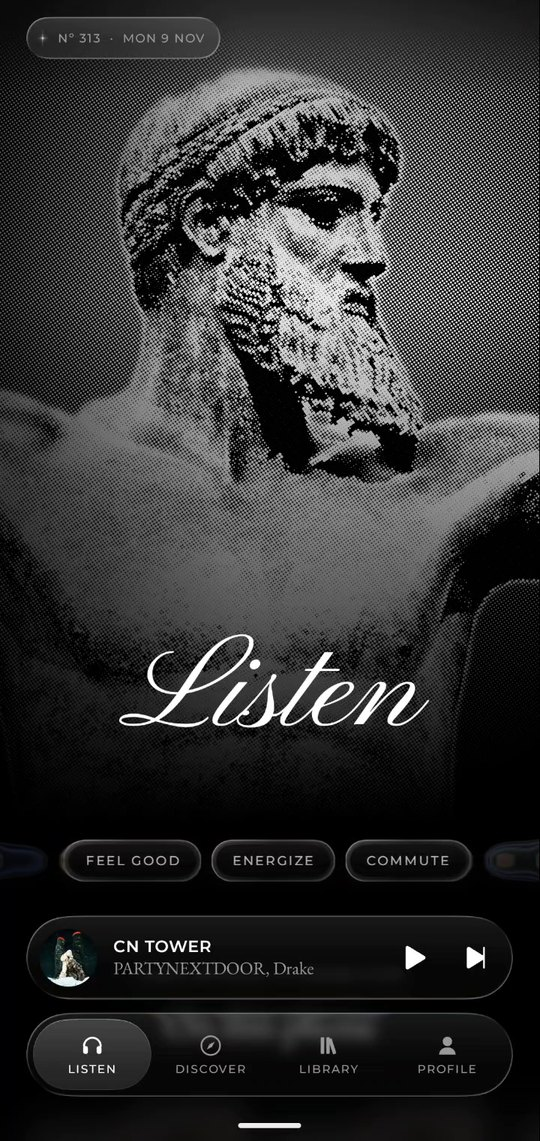
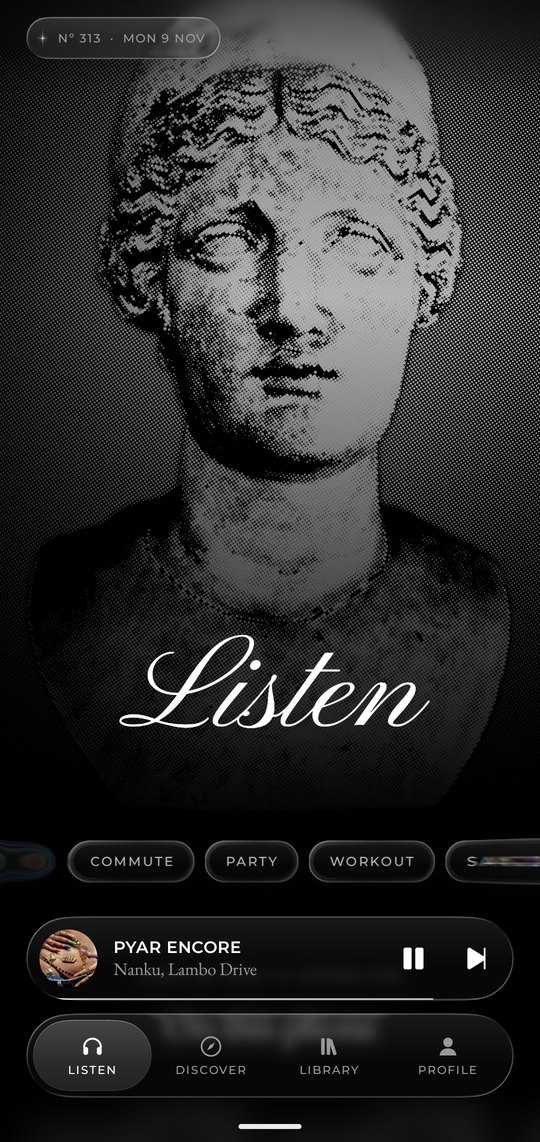
AETHER 1.0.0: release key, changelog and download page
Release builds are signed with AETHER's own key, kept outside git, and are
no longer shrunk, so they run the same code that's tested on the phone.

diff --git a/README.md b/README.md
@@ -6,22 +6,37 @@ Built around the sound. Unlike anything you've used.
 </p>
 
 <p align="center">
-  <img src="docs/images/listen.jpg" width="24%" alt="Listen, with a statue in halftone">
-  <img src="docs/images/morph.jpg" width="24%" alt="The halftone dots of one statue reassembling into another">
-  <img src="docs/images/now-playing.jpg" width="24%" alt="Now Playing, the album's film fading in an arc round the dial">
-  <img src="docs/images/equaliser.jpg" width="24%" alt="The equaliser, showing the measured correction for AirPods Max">
+  <a href="https://github.com/GHOSTxASR/AETHER/releases/latest/download/AETHER.v1.apk"><img alt="Download the APK" src="https://img.shields.io/badge/Download-APK-ffffff?style=for-the-badge&labelColor=000000" /></a>
+  <a href="https://github.com/GHOSTxASR/AETHER/releases/latest"><img alt="Latest release" src="https://img.shields.io/github/v/release/GHOSTxASR/AETHER?style=for-the-badge&labelColor=000000&color=ffffff" /></a>
+  <a href="LICENSE"><img alt="License: GPL-3.0" src="https://img.shields.io/badge/License-GPL--3.0-ffffff?style=for-the-badge&labelColor=000000" /></a>
+  <img alt="Android 10 or later" src="https://img.shields.io/badge/Android-10%2B-ffffff?style=for-the-badge&labelColor=000000" />
 </p>
 
 <p align="center">
+  <img src="docs/images/listen.jpg" width="24%" alt="The homepage, with a statue of Hera in halftone">
+  <img src="docs/images/morph.jpg" width="24%" alt="The halftone dots of one statue reassembling into another">
+  <img src="docs/images/now-playing.jpg" width="24%" alt="Now Playing, the album's film fading in an arc round the dial">
+  <img src="docs/images/artist.jpg" width="24%" alt="An artist's page, with their own lettering">
+</p>
+
+<p align="center">
+  <img src="docs/images/home-folders.jpg" width="24%" alt="The homepage's playlists as glass folders">
+  <img src="docs/images/equaliser.jpg" width="24%" alt="The equaliser, showing the measured correction for AirPods Max">
   <img src="docs/images/card-profile.jpg" width="24%" alt="A profile card in brushed silver">
   <img src="docs/images/card-song.jpg" width="24%" alt="A song card in black metal">
-  <img src="docs/images/library.jpg" width="24%" alt="The library, with playlists as glass folders">
-  <img src="docs/images/profile.jpg" width="24%" alt="A day of listening drawn as a dial">
 </p>
 
 AETHER is made the way a fine watch is made: every part considered, nothing there for show. Pure black. One glass. Three typefaces. The only colour on the screen comes from the music you're playing.
 
 It plays all of YouTube Music and your own files through an audio path that reports exactly what it measured, in an interface no other music app looks or moves like.
+
+## Download
+
+1. Download **[AETHER v1.apk](https://github.com/GHOSTxASR/AETHER/releases/latest/download/AETHER.v1.apk)** from the latest release.
+2. Open it on your phone. Android asks once to allow installs from your browser or file manager.
+3. Open AETHER and press play.
+
+Needs Android 10 or later. Every release is signed with the same key, so new versions install over old ones and keep your library.
 
 ## Zero nonsense
 
@@ -73,7 +88,7 @@ Quality is measured, never claimed. Added sources play open media only: no conte
 
 ## Building
 
-Version 0.1.0, in final polish. Runs on Android 10 or later, in portrait. You need JDK 17 or later and the Android SDK with API 37, with `local.properties` pointing at the SDK.
+Runs on Android 10 or later, in portrait. To build it you need JDK 17 or later and the Android SDK with API 37, with `local.properties` pointing at the SDK.
 
 ```sh
 ./gradlew :app:installDebug                                          # build and install on a phone
@@ -82,7 +97,7 @@ Version 0.1.0, in final polish. Runs on Android 10 or later, in portrait. You ne
 ./gradlew :app:assembleRelease                                       # release APK
 ```
 
-Release builds are currently signed with the debug key, so add your own signing config before distributing one. AGSL shaders need Android 13, and the dot morph and bit-perfect output need 14. Older phones fall back quietly.
+A release build is signed with the key named in `keystore.properties`, which stays out of git; without one the APK comes out unsigned. Publishing is written up in [`docs/releasing.md`](docs/releasing.md). AGSL shaders need Android 13, and the dot morph and bit-perfect output need 14. Older phones fall back quietly.
 
 | Module | What it holds |
 |---|---|
@@ -95,7 +110,7 @@ Release builds are currently signed with the debug key, so add your own signing 
 | `ytmusic` | The YouTube Music client and its fail-soft parser |
 | `sources:*` | YouTube, the phone, addons, and Apple's public art |
 
-Design and engineering notes are in [`docs/product.md`](docs/product.md), [`docs/architecture.md`](docs/architecture.md) and [`docs/ytmusic-verification.md`](docs/ytmusic-verification.md).
+What changed and when is in [`CHANGELOG.md`](CHANGELOG.md). Design and engineering notes are in [`docs/product.md`](docs/product.md), [`docs/architecture.md`](docs/architecture.md) and [`docs/ytmusic-verification.md`](docs/ytmusic-verification.md).
 
 ## Credits
 

diff --git a/docs/releases/v1.0.0.md b/docs/releases/v1.0.0.md
@@ -1,0 +1,17 @@
+**AETHER 1.0** is the first release: a premium music player for Android, built around the sound and unlike anything you've used.
+
+### What's in it
+- **All of YouTube Music, and your own:** the whole catalogue, as a guest or signed in on Google's own page. Your FLAC, ALAC and WAV files, folder by folder. Songs and whole playlists kept for offline. Your own server, added by address.
+- **An honest signal path:** "Lossless", "Hi-Res" and "Bit-perfect" appear only when measured or verified. Bit-perfect to a USB DAC on Android 14 and later.
+- **An equaliser that knows your headphones:** measured corrections for 39 models, including AirPods Max and Pro, Sennheiser, Sony, Marshall and Bose. Seven tunings of our own, and profiles imported from AutoEq, squig.link, Equalizer APO or Wavelet.
+- **Statues that rearrange themselves:** behind Listen, twelve figures from antiquity in halftone, every dot flying across to become the next god.
+- **Now Playing as an instrument:** a dial with a red needle, and the album's own film in colour where it has one, fading in an arc round the controls.
+- **Metal you can send:** your listening on a black or brushed silver charge card, and any song on a card of its own, at story size.
+- **A song going into the phone:** keep one and its cover sinks into the foot of the screen with a ripple through the whole display.
+- **Lyrics drawn by hand:** words as a constellation, or the whole song as one unbroken line.
+- **Zero nonsense:** no ads, no tracking, no analytics, no account and no server of ours.
+
+### Installing
+Needs Android 10 or later. Open the APK on your phone, and Android asks once to allow installs from your browser or file manager.
+
+If you have an earlier test build of AETHER, uninstall it first: this is the first build signed with AETHER's own release key. From here on, new versions install over old ones and keep your library.

diff --git a/CHANGELOG.md b/CHANGELOG.md
@@ -1,0 +1,26 @@
+# Changelog
+
+All notable changes to AETHER will be documented in this file.
+
+The format is based on [Keep a Changelog](https://keepachangelog.com/en/1.1.0/),
+and this project adheres to [Semantic Versioning](https://semver.org/spec/v2.0.0.html).
+
+## [Unreleased]
+
+## [1.0.0] - 2026-11-09
+
+The first release.
+
+### Added
+- **Listening:** the whole YouTube Music catalogue, as a guest or signed in; your own music by folder; songs and playlists kept for offline, with new additions picked up on Wi-Fi; your own sources by address, open media only.
+- **Sound:** quality labels only when measured or verified; bit-perfect output to a USB DAC on Android 14 and later; float output with no resampling by the app.
+- **Equaliser:** seven tunings, measured corrections for 39 headphones, and profiles imported from AutoEq, squig.link, Equalizer APO or Wavelet files. A boost can't clip, and with nothing chosen every sample passes through untouched.
+- **Now Playing:** a seeking dial; the cover as a print, halftone, ASCII or dither; the album's film in colour where it has one, fading in an arc round the controls; lyrics as constellations or as one unbroken line.
+- **Listen:** twelve statues in halftone, the dots of one flying across to become the next.
+- **Downloads:** the cover carried into the foot of the screen with a ripple on arrival; several at once as a row of discs, with a list of what's coming down.
+- **Profile:** most played artists, your hours as a dial, genres and habits, all worked out on the phone.
+- **Cards:** a metal charge card of your profile or any song, black or silver, at 1080 by 1920.
+- **Privacy:** no ads, no analytics, no tracking, no account and no server of ours.
+
+[Unreleased]: https://github.com/GHOSTxASR/AETHER/compare/v1.0.0...HEAD
+[1.0.0]: https://github.com/GHOSTxASR/AETHER/releases/tag/v1.0.0

diff --git a/docs/releasing.md b/docs/releasing.md
@@ -1,0 +1,25 @@
+# Publishing a release
+
+The way PODIUM's are published.
+
+## The key
+
+A PKCS12 keystore (RSA 4096, alias `aether`, valid 10,000 days) lives outside the repo, in
+`%USERPROFILE%\.aether-release\`, with its passwords in `keystore.properties` beside it. A copy of that
+file sits in the project root, which git ignores. `app/build.gradle.kts` reads it, or the
+`AETHER_KEYSTORE_FILE`, `AETHER_KEYSTORE_PASSWORD`, `AETHER_KEY_ALIAS` and `AETHER_KEY_PASSWORD`
+environment variables. With neither, the release APK is built unsigned.
+
+**Back the keystore up** (a password manager and an offline copy). Every release must be signed with
+it: an APK signed with a different key can't install over an existing AETHER.
+
+## Steps
+
+1. Raise `versionName`, and `versionCode` as `major * 1,000,000 + minor * 1,000 + patch`.
+2. Add the release to `CHANGELOG.md`, and write its notes in `docs/releases/v<versionName>.md`.
+3. `./gradlew :app:assembleRelease`, then check it: `apksigner verify --print-certs` names `CN=AETHER`.
+   Release builds aren't shrunk, so they run the same code as the debug build tested on the phone. To
+   try one beside the phone's own without an uninstall, add `-Paether.applicationIdSuffix=.rc`.
+4. Publish a GitHub Release tagged `v<versionName>`, with the APK attached and the notes from step 2
+   followed by the APK's size and SHA-256. The README's download link names the file, so update it if
+   the file's name changes. Never commit APKs.
